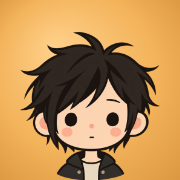
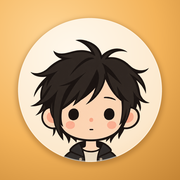
网页端头像图标改为外框加内圆、人物居中（v4.10.1）
品牌标记与欢迎区头像换成自带琥珀外框与浅色内圆的图标，去掉叠加底色、边框与下移偏移；图片与样式引用更新版本号。

Claude-Session: https://claude.ai/code/session_01DxF599FULx8kT6Ch4pjp6T

diff --git a/web_client/register.html b/web_client/register.html
@@ -4,15 +4,15 @@
     <meta charset="utf-8" />
     <meta name="viewport" content="width=device-width, initial-scale=1" />
     <title>注册 · 知天</title>
-    <link rel="icon" type="image/png" sizes="32x32" href="./css/brand/favicon-32.png" />
-    <link rel="apple-touch-icon" href="./css/brand/apple-touch-icon.png" />
-    <link rel="stylesheet" href="./css/style.css?v=lamp-node-20260928" />
+    <link rel="icon" type="image/png" sizes="32x32" href="./css/brand/favicon-32.png?v=20260930" />
+    <link rel="apple-touch-icon" href="./css/brand/apple-touch-icon.png?v=20260930" />
+    <link rel="stylesheet" href="./css/style.css?v=lamp-node-20260930" />
   </head>
   <body class="auth-page">
     <main class="auth-shell">
       <section class="auth-intro" aria-label="产品说明">
         <div>
-          <a class="brand-mark" href="./login.html" aria-label="知天登录首页"><img src="./css/brand/avatar-128.webp" width="128" height="128" alt="" decoding="async"></a>
+          <a class="brand-mark" href="./login.html" aria-label="知天登录首页"><img src="./css/brand/avatar-128.webp?v=20260930" width="128" height="128" alt="" decoding="async"></a>
           <p class="intro-title">为你的问题，<br />留一份档案。</p>
           <p>创建个人问答账号，从一次提问开始，也可以结合附件继续梳理材料。</p>
           <div class="auth-assurances">
@@ -63,7 +63,7 @@
       </div>
     </main>
     <script src="./config.js"></script>
-    <script src="./js/api.js?v=lamp-node-20260928"></script>
-    <script src="./js/register.js?v=lamp-node-20260928"></script>
+    <script src="./js/api.js?v=lamp-node-20260930"></script>
+    <script src="./js/register.js?v=lamp-node-20260930"></script>
   </body>
 </html>

diff --git a/web_client/login.html b/web_client/login.html
@@ -4,15 +4,15 @@
     <meta charset="utf-8" />
     <meta name="viewport" content="width=device-width, initial-scale=1" />
     <title>登录 · 知天</title>
-    <link rel="icon" type="image/png" sizes="32x32" href="./css/brand/favicon-32.png" />
-    <link rel="apple-touch-icon" href="./css/brand/apple-touch-icon.png" />
-    <link rel="stylesheet" href="./css/style.css?v=lamp-node-20260928" />
+    <link rel="icon" type="image/png" sizes="32x32" href="./css/brand/favicon-32.png?v=20260930" />
+    <link rel="apple-touch-icon" href="./css/brand/apple-touch-icon.png?v=20260930" />
+    <link rel="stylesheet" href="./css/style.css?v=lamp-node-20260930" />
   </head>
   <body class="auth-page">
     <main class="auth-shell">
       <section class="auth-intro" aria-label="产品说明">
         <div>
-          <a class="brand-mark" href="./login.html" aria-label="知天登录首页"><img src="./css/brand/avatar-128.webp" width="128" height="128" alt="" decoding="async"></a>
+          <a class="brand-mark" href="./login.html" aria-label="知天登录首页"><img src="./css/brand/avatar-128.webp?v=20260930" width="128" height="128" alt="" decoding="async"></a>
           <p class="intro-title">把问题带来，<br />让知识有回应。</p>
           <p>基于企业已审核通过的知识库作答，并标注答案所依据的文档来源。</p>
           <div class="auth-assurances">
@@ -55,7 +55,7 @@
       </div>
     </main>
     <script src="./config.js"></script>
-    <script src="./js/api.js?v=lamp-node-20260928"></script>
-    <script src="./js/login.js?v=lamp-node-20260928"></script>
+    <script src="./js/api.js?v=lamp-node-20260930"></script>
+    <script src="./js/login.js?v=lamp-node-20260930"></script>
   </body>
 </html>

diff --git a/web_client/chat.html b/web_client/chat.html
@@ -4,15 +4,15 @@
     <meta charset="utf-8" />
     <meta name="viewport" content="width=device-width, initial-scale=1" />
     <title>提问 · 知天</title>
-    <link rel="icon" type="image/png" sizes="32x32" href="./css/brand/favicon-32.png" />
-    <link rel="apple-touch-icon" href="./css/brand/apple-touch-icon.png" />
-    <link rel="stylesheet" href="./css/style.css?v=lamp-node-20260928" />
+    <link rel="icon" type="image/png" sizes="32x32" href="./css/brand/favicon-32.png?v=20260930" />
+    <link rel="apple-touch-icon" href="./css/brand/apple-touch-icon.png?v=20260930" />
+    <link rel="stylesheet" href="./css/style.css?v=lamp-node-20260930" />
   </head>
   <body class="chat-page">
     <div class="workspace-shell">
       <aside id="chatSidebar" class="chat-sidebar" aria-label="对话导航">
         <div class="sidebar-brand">
-          <a class="brand-mark" href="./chat.html" aria-label="知天工作台首页"><img src="./css/brand/avatar-128.webp" width="128" height="128" alt="" decoding="async"></a>
+          <a class="brand-mark" href="./chat.html" aria-label="知天工作台首页"><img src="./css/brand/avatar-128.webp?v=20260930" width="128" height="128" alt="" decoding="async"></a>
           <div>
             <strong>知天</strong>
             <small>企业知识工作台</small>
@@ -102,7 +102,7 @@
     </div>
 
     <script src="./config.js"></script>
-    <script src="./js/api.js?v=lamp-node-20260928"></script>
-    <script src="./js/chat.js?v=lamp-node-20260928"></script>
+    <script src="./js/api.js?v=lamp-node-20260930"></script>
+    <script src="./js/chat.js?v=lamp-node-20260930"></script>
   </body>
 </html>

diff --git a/web_client/settings.html b/web_client/settings.html
@@ -4,9 +4,9 @@
     <meta charset="utf-8" />
     <meta name="viewport" content="width=device-width, initial-scale=1" />
     <title>API 额度设置 · 知天</title>
-    <link rel="icon" type="image/png" sizes="32x32" href="./css/brand/favicon-32.png" />
-    <link rel="apple-touch-icon" href="./css/brand/apple-touch-icon.png" />
-    <link rel="stylesheet" href="./css/style.css?v=lamp-node-20260928" />
+    <link rel="icon" type="image/png" sizes="32x32" href="./css/brand/favicon-32.png?v=20260930" />
+    <link rel="apple-touch-icon" href="./css/brand/apple-touch-icon.png?v=20260930" />
+    <link rel="stylesheet" href="./css/style.css?v=lamp-node-20260930" />
   </head>
   <body class="settings-page">
     <header class="settings-topbar">
@@ -72,7 +72,7 @@
     </main>
 
     <script src="./config.js"></script>
-    <script src="./js/api.js?v=lamp-node-20260928"></script>
-    <script src="./js/settings.js?v=lamp-node-20260928"></script>
+    <script src="./js/api.js?v=lamp-node-20260930"></script>
+    <script src="./js/settings.js?v=lamp-node-20260930"></script>
   </body>
 </html>

diff --git a/web_client/css/style.css b/web_client/css/style.css
@@ -887,10 +887,12 @@ button.mode-option.active { box-shadow: var(--primary-active-shadow); }
 .execution-item[data-phase="started"]::before { border-color: var(--amber-hot); background: var(--primary); box-shadow: 0 0 10px var(--amber-glow); }
 .execution-item[data-phase="failed"]::before { border-color: var(--warning); }
 
+/* 头像图标自带外框与内圆：去掉底色与边框，只保留光晕 */
 .brand-mark,
-.welcome-mark { overflow: hidden; border-radius: 12px; }
+.welcome-mark,
+.brand-mark:hover { display: block; overflow: hidden; border: 0; border-radius: 22.5%; background: none; }
 .brand-mark img,
-.welcome-mark img { display: block; width: 92%; height: auto; margin-top: 14%; }
+.welcome-mark img { display: block; width: 100%; height: 100%; }
 
 @media (max-width: 860px) {
   .auth-intro { background: transparent; }

diff --git a/web_client/js/chat.js b/web_client/js/chat.js
@@ -176,7 +176,7 @@
     const mark = document.createElement('div');
     mark.className = 'welcome-mark';
     const markImage = document.createElement('img');
-    markImage.src = './css/brand/avatar-128.webp';
+    markImage.src = './css/brand/avatar-128.webp?v=20260930';
     markImage.alt = '';
     mark.append(markImage);
     const title = document.createElement('h2');

diff --git a/CHANGELOG.md b/CHANGELOG.md
@@ -1984,3 +1984,13 @@
 - **部署影响**：仅静态文件（web_client 容器重建即可），不涉及后端、数据库与配置。
 - **未验证 / 不得视为完成**：真实后端下的流式对话、密码管理器填充、移动软键盘、屏幕阅读器、Safari/Firefox 的毛玻璃表现；用户视觉验收；线上生效。
 - **品牌标记改为 OC 头像**（同轮追加）：所有圆形「知」字替换为用户提供的小男孩头像（`css/brand/avatar-128.webp`，已去白底，琥珀圆角底），并新增浏览器标签图标 `css/brand/favicon-32.png`、`apple-touch-icon.png`；图片放 `css/brand/` 同样是因为 Dockerfile 只复制 `css/`。对话页欢迎卡片的「知」由 `js/chat.js` 生成，改为插入同一张头像 `img`，其余逻辑未改。
+
+## 2026-09-30 v4.10.1 —— 补丁（x.y.Z）：头像图标改为「外框 + 内圆」，人物居中
+
+- **问题**：人物在旧图标里偏下：旧版是把去底头像直接压在琥珀圆角方块上，并靠 `margin-top: 14%`（Flutter 为底部对齐）把肩膀贴到底边，视觉重心明显偏低。
+- **修复**：参考豆包式「外框 + 内圆」：琥珀渐变圆角方块外框（圆角 22.5%），中间浅奶油色内圆（直径 80%），人物头部居中、肩膀被内圆底边裁切；由同一张 1024px 母版导出各尺寸，图标自带底色，所以各端不再叠加底色、边框、内边距或偏移。
+  - `web_client/css/brand/` 重新导出 `avatar-128.webp`、`favicon-32.png`、`apple-touch-icon.png`。
+  - `web_client/css/style.css` 末尾的品牌标记规则：`.brand-mark` / `.welcome-mark` 去掉底色、边框与图片偏移，图片铺满，圆角 22.5%，光晕保留；`:root` 外仍无 hex / rgb 字面量。
+  - 四个页面与 `js/chat.js` 的头像、网页标签图标引用加 `?v=20260930`，样式/脚本版本号改为 `lamp-node-20260930`；`DESIGN.md` 同步说明。
+- **证据**：`node --check js/chat.js` 通过；本地渲染登录页，品牌标记 40px 显示完整、人物居中。
+- **部署影响**：仅静态文件，按标签重建 web_client 即可。`VERSION` 4.10.0 → 4.10.1。

diff --git a/web_client/DESIGN.md b/web_client/DESIGN.md
@@ -8,7 +8,7 @@
 
 字体本地托管在 `css/fonts/`（Montserrat 800/900、JetBrains Mono 400/600 的 latin 子集，附 SIL OFL 1.1），不引入远程字体服务；标题用 `--font-display`，编号与技术字段用 mono，中文仍走系统字体。放在 `css/` 下是因为 Dockerfile 只复制 `css/`、`js/`、`config.js` 与 HTML。胶片颗粒是 `css/grain.svg`，因为本站 CSP 的 `img-src 'self'` 不允许 `data:`。
 
-标志元素：发光节点（`.eyebrow` 前的点、当前会话左侧、执行动态每一步）、左上/左下的暖灯径向光、对话区点阵画布、磨砂玻璃卡片（登录卡、额度卡、欢迎卡、助手气泡）。正文 15–16，辅助 12–13，分区标题 20–24，页面标题 32–44；营销说明可至 68。间距 4 / 8 / 12 / 16 / 24 / 32 / 64；圆角 10 / 16 / 24。品牌标记 40（2026-09-28 起由「知」字改为 OC 头像 `css/brand/avatar-128.webp`，放在琥珀圆角方块上，`alt=""` 由外层链接的 `aria-label` 承担可访问名称），不改变首页链接语义；四页同时引用 `css/brand/favicon-32.png` 与 `apple-touch-icon.png`。按钮形状、文案与禁用逻辑沿用上一轮，只换配色。
+标志元素：发光节点（`.eyebrow` 前的点、当前会话左侧、执行动态每一步）、左上/左下的暖灯径向光、对话区点阵画布、磨砂玻璃卡片（登录卡、额度卡、欢迎卡、助手气泡）。正文 15–16，辅助 12–13，分区标题 20–24，页面标题 32–44；营销说明可至 68。间距 4 / 8 / 12 / 16 / 24 / 32 / 64；圆角 10 / 16 / 24。品牌标记 40（2026-09-28 起由「知」字改为 OC 头像 `css/brand/avatar-128.webp`，2026-09-30 起改为自带琥珀外框与浅色内圆、人物居中的完整图标，不再叠加底色，`alt=""` 由外层链接的 `aria-label` 承担可访问名称），不改变首页链接语义；四页同时引用 `css/brand/favicon-32.png` 与 `apple-touch-icon.png`。按钮形状、文案与禁用逻辑沿用上一轮，只换配色。
 
 | 公共组件 | 显示规范 | 使用边界 |
 |---|---|---|
